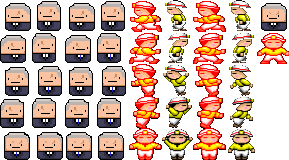
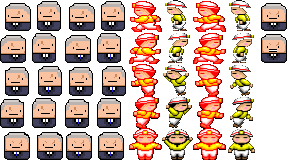
2020/10/11 TIKER 新增，增加講話動畫，第一次講話畫面會暫停， 人物位移過於左邊BUG會回收機制， 但仍有許多BUG 慢慢修

Changed region(s): [[0.872, 0.1875, 1.0, 0.4062]]

diff --git a/Population.js b/Population.js
@@ -122,6 +122,9 @@ class Population {
       }
     }        
 
+    // 重生後 說過的話數歸零
+    this.populationSpeechCounter =0;
+
     this.players = reBornList.slice(0);
   }
 
@@ -351,8 +354,30 @@ class Population {
       {
         this.populationVoice = BVoices[(1+ Math.floor(Math.random()*30))];
         this.populationVoice.play();
+                
+        // 話說完了
+        this.populationVoice.onStop.add(function() {
+          
+          console.log("B_Speech " + this.populationSpeechCounter);
 
-        this.populationSpeechCounter++;
+          if(this.populationSpeechCounter ==0)
+          {
+            freeze(10);
+          }
+
+          // 活著的傢伙 通通播演講動畫
+          for (let i = 0; i < this.players.length; i++)
+          {
+            if (!this.players[i].dead ) {   
+              this.players[i].isPlayingAnimation = false;              
+            }
+          }       
+
+
+          this.populationSpeechCounter++;
+
+        }, this);
+
       }
 
       if(!this.populationVoice.isPlaying)
@@ -360,7 +385,29 @@ class Population {
         this.populationVoice = BVoices[(1+ Math.floor(Math.random()*30))];
         this.populationVoice.play();
 
-        this.populationSpeechCounter++;
+              
+        // 話說完了
+        this.populationVoice.onStop.add(function() {
+          
+          console.log("B_Speech " + this.populationSpeechCounter);
+
+          if(this.populationSpeechCounter ==0)
+          {
+            freeze(10);
+          }
+
+          // 活著的傢伙 通通播演講動畫
+          for (let i = 0; i < this.players.length; i++)
+          {
+            if (!this.players[i].dead ) {   
+              this.players[i].isPlayingAnimation = false;              
+            }
+          }       
+
+
+          this.populationSpeechCounter++;
+
+        }, this);
       }
       
     }
@@ -373,17 +420,67 @@ class Population {
         this.populationVoice = TVoices[(1+ Math.floor(Math.random()*127))];
         this.populationVoice.play();
 
+       // 話說完了
+       this.populationVoice.onStop.add(function() {
+          
+        console.log("T_Speech " + this.populationSpeechCounter);
+
+        if(this.populationSpeechCounter ==0)
+        {
+          freeze(10);
+        }
+
+          // 活著的傢伙 通通播演講動畫
+          for (let i = 0; i < this.players.length; i++)
+          {
+            if (!this.players[i].dead ) {   
+              this.players[i].isPlayingAnimation = false;              
+            }
+          }       
+
         this.populationSpeechCounter++;
+
+      }, this);
       }
       if(!this.populationVoice.isPlaying)
       {
         this.populationVoice = TVoices[(1+ Math.floor(Math.random()*127))];
         this.populationVoice.play();
 
-        this.populationSpeechCounter++;
+         // 話說完了
+         this.populationVoice.onStop.add(function() {
+          
+          console.log("T_Speech " + this.populationSpeechCounter);
+
+          if(this.populationSpeechCounter ==0)
+          {
+            freeze(10);
+          }
+
+          // 活著的傢伙 通通播演講動畫
+          for (let i = 0; i < this.players.length; i++)
+          {
+            if (!this.players[i].dead ) {   
+              this.players[i].isPlayingAnimation = false;              
+            }
+          }       
+
+
+          this.populationSpeechCounter++;
+
+        }, this);
       }
       
     }           
+
+    // 活著的傢伙 通通播演講動畫
+    for (let i = 0; i < this.players.length; i++)
+    {
+      if (!this.players[i].dead ) {   
+        this.players[i].isPlayingAnimation = true;
+        this.players[i].player.animations.play("speech",8,true);      
+      }
+    } 
   }
 
 

diff --git a/Player.js b/Player.js
@@ -29,6 +29,9 @@ class Player {
     player.animations.add("leftAttack", [17, 26], 6);
     player.animations.add("rightAttack", [35, 44], 6);
 
+    // 講話動畫
+    player.animations.add("speech", [8,17], 8);
+
     player.life = 10;
     player.unbeatableTime = 0;
     player.touchOn = undefined;
@@ -940,6 +943,39 @@ class Player {
       else
       {
         console.log("fell to death");
+        this.dead = true;
+      }      
+      // gameOver();
+    }
+
+    
+    // 被怪撞到左邊的回收
+    if (this.player.body.x < 400 && !this.dead && status == "playing") {
+      // fallSound.play();
+
+      // 補償機制，若非一血衰落，會以一滴血重新開始
+      if(this.player.life >1)
+      {
+        this.player.life = 1;
+
+        this.player.x = 400 + gameWidth / 2; 
+
+        this.player.y = 50;
+
+        // this.player.tint = 0xff3300;
+
+        // 將Y 方向速度歸零，避免重生時 速度太快入場
+        this.player.body.velocity.y =0;        
+
+        // 重生 閃紅光入場
+        game.add.tween(this.player).to({
+          tint: 0xff3300,
+        }, 200, Phaser.Easing.Exponential.Out, true, 0, 0, true);
+        
+      }
+      else
+      {
+        console.log("left fell to death");
         this.dead = true;
       }      
       // gameOver();

diff --git a/play.js b/play.js
@@ -988,11 +988,15 @@ function drawNewRank() {
 
 }
 
-// 將板塊卡住;
-function freeze()
+// 將板塊卡住 幾秒;
+function freeze(duration)
 {
   platformsStatus = "freeze";
   // console.log("freeze!");
+
+  
+  //延遲幾秒後 秒後 解凍
+  setTimeout(unfreeze, duration*1000); 
 }
 
 //板塊繼續
